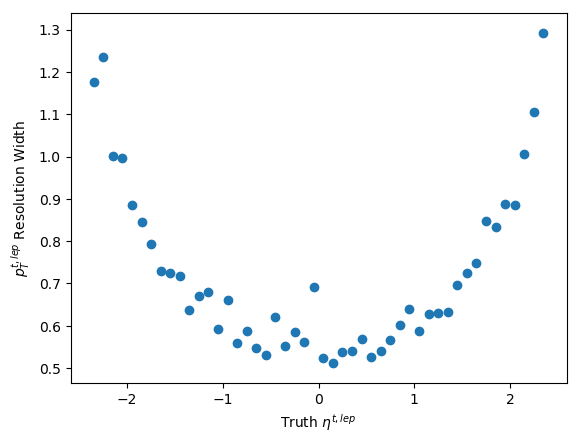
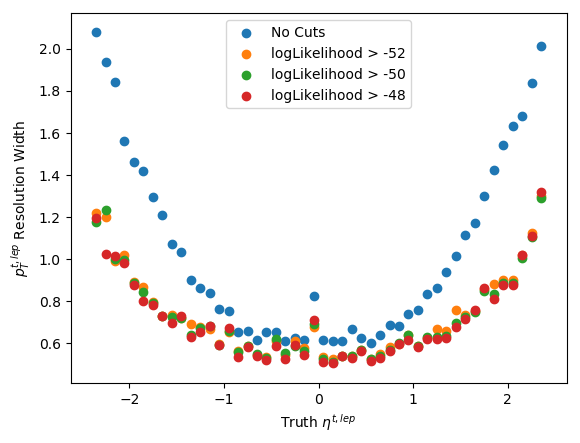
Added various logLikelihood cuts to resolution vs variable plots.

diff --git a/plotter.py b/plotter.py
@@ -272,8 +272,8 @@ def Plot_Res(df,cutA,cutB,cutC,name,particle):
 
 
 # Creates and saves the resolution vs variable plots
-# Input: cutB of df, data type, particle, resolution (y) variable, (x) variable, index of y variable, index of x variable, and [first bin edge, last bin edge, width of bins]
-def Plot_Res_vs_Var(cutB,name,particle,y_var,x_var,iy,ix,bins):
+# Input: df, cutA, cutB, cutC, data type, particle, resolution (y) variable, (x) variable, index of y variable, index of x variable, and [first bin edge, last bin edge, width of bins]
+def Plot_Res_vs_Var(df,cutA,cutB,cutC,name,particle,y_var,x_var,iy,ix,bins):
 
 	data = []   # Array to hold var vs fwhm values
 	for bottom_edge in np.arange(bins[0],bins[1],bins[2]):	
@@ -283,23 +283,34 @@ def Plot_Res_vs_Var(cutB,name,particle,y_var,x_var,iy,ix,bins):
 		middle = bottom_edge+(bins[2]/2)
 
 		# Look at resolution at a particular value of var
-		cut_temp = cutB[cutB['truth '+particle+' '+x_var]>=bottom_edge]      # Should I fold in edges of first and last?
+		cut_temp = df[df['truth '+particle+' '+x_var]>=bottom_edge]      # Should I fold in edges of first and last?
 		cut_temp = cut_temp[cut_temp['truth '+particle+' '+x_var]<top_edge]
+		cut_tempA = cutA[cutA['truth '+particle+' '+x_var]>=bottom_edge]      # Should I fold in edges of first and last?
+                cut_tempA = cut_tempA[cut_tempA['truth '+particle+' '+x_var]<top_edge]
+		cut_tempB = cutB[cutB['truth '+particle+' '+x_var]>=bottom_edge]      # Should I fold in edges of first and last?
+                cut_tempB = cut_tempB[cut_tempB['truth '+particle+' '+x_var]<top_edge]
+		cut_tempC = cutC[cutC['truth '+particle+' '+x_var]>=bottom_edge]      # Should I fold in edges of first and last?
+                cut_tempC = cut_tempC[cut_tempC['truth '+particle+' '+x_var]<top_edge]
 
-		# Get standard deviation with dataframe methods
+		# Get standard deviations with dataframe method
                 sigma = cut_temp['resolution '+particle+' '+y_var].std()
-                mean = cut_temp['resolution '+particle+' '+y_var].mean()
+		sigmaA = cut_tempA['resolution '+particle+' '+y_var].std()
+		sigmaB = cut_tempB['resolution '+particle+' '+y_var].std()
+		sigmaC = cut_tempC['resolution '+particle+' '+y_var].std()
 
 		# Append the data from this particular var
-		#data.append([middle,sigma1,mean1,sigma2,mean2,bins[2]/2])
-		data.append([middle,sigma,mean,bins[2]/2])		
+		data.append([middle,bins[2]/2,sigma,sigmaA,sigmaB,sigmaC])		
 
 	# Convert the array to a pandas data frame for easy reading	
-	df_res = pd.DataFrame(data,columns=(x_var,'sigma','mean','p/m'))
+	df_res = pd.DataFrame(data,columns=(x_var,'p/m','sigma','sigmaA','sigmaB','sigmaC'))
 
-	# Create a plot
+	# Create a scatter plot
 	plt.figure(y_var+' Resolution vs '+x_var)
 	plt.scatter(df_res[x_var], df_res['sigma'])
+	plt.scatter(df_res[x_var], df_res['sigmaA'])
+	plt.scatter(df_res[x_var], df_res['sigmaB'])
+	plt.scatter(df_res[x_var], df_res['sigmaC'])
+	plt.legend(['No Cuts','logLikelihood > -52','logLikelihood > -50','logLikelihood > -48'])
 	plt.xlabel('Truth '+labels[particle][ix]+units[particle][ix])
 	plt.ylabel(labels[particle][iy]+' Resolution Width')
 
@@ -336,10 +347,10 @@ def Run_Plotting(name):
 	# Create resolution plots
 	for p in par:
 		Plot_Res(df,cutA,cutB,cutC,name,p)
-		Plot_Res_vs_Var(cutB,name,p,'eta','eta',1,1,[-2.4,2.4,0.1])
-		Plot_Res_vs_Var(cutB,name,p,'pt','pt',0,0,[90,510,20])	
-		Plot_Res_vs_Var(cutB,name,p,'pt','eta',0,1,[-2.4,2.4,0.1])
-		Plot_Res_vs_Var(cutB,name,p,'eta','pt',1,0,[90,510,20])
+		Plot_Res_vs_Var(df,cutA,cutB,cutC,name,p,'eta','eta',1,1,[-2.4,2.4,0.1])
+		Plot_Res_vs_Var(df,cutA,cutB,cutC,name,p,'pt','pt',0,0,[90,510,20])	
+		Plot_Res_vs_Var(df,cutA,cutB,cutC,name,p,'pt','eta',0,1,[-2.4,2.4,0.1])
+		Plot_Res_vs_Var(df,cutA,cutB,cutC,name,p,'eta','pt',1,0,[90,510,20])
 
 
 
